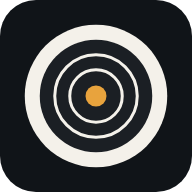
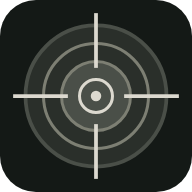
Fondos oscuros y acentos militares, icono nuevo y nombre Cuaderno de Tiro
- Ajustes: selector de fondo oscuro (original, negro, gris oscuro, gris y
  verde militar #141916) y cuatro acentos militares nuevos.
- Las superficies y bordes del modo oscuro se derivan del fondo elegido.
- src/lib/colors.ts: tinta legible sobre el acento y acento como texto solo
  si contrasta con el fondo, con tests.
- Icono y pantalla de inicio en tonos militares, con variante maskable.
- Manifiesto: name y short_name 'Cuaderno de Tiro'.

Claude-Session: https://claude.ai/code/session_0153KyUo7hLLrksDpS5ZWPV8

diff --git a/src/styles.css b/src/styles.css
@@ -10,6 +10,8 @@
   --warn-bg: #fff3d6;
   --warn-text: #6b4a00;
   --on-accent: #1b1f24;
+  /* Acento para texto e iconos; App lo cambia si no se lee sobre el fondo. */
+  --accent-ink: var(--accent);
   --card-paper: #f6f3ea;
   --ring-dark: #1b1f24;
   --mpi: #2a7de1;
@@ -20,12 +22,14 @@
 
 @media (prefers-color-scheme: dark) {
   :root:not([data-theme='light']) {
-    --bg: #101418;
-    --surface: #1a2027;
-    --surface-2: #232b34;
+    /* El fondo oscuro es elegible (--bg-dark lo pone App) y las superficies se
+       aclaran a partir de él. */
+    --bg: var(--bg-dark, #101418);
+    --surface: color-mix(in srgb, var(--bg) 95%, #ffffff);
+    --surface-2: color-mix(in srgb, var(--bg) 91%, #ffffff);
     --text: #e9ecef;
     --muted: #9aa4ae;
-    --border: #2e3843;
+    --border: color-mix(in srgb, var(--bg) 84%, #ffffff);
     --warn-bg: #3a2f14;
     --warn-text: #f5d58a;
     --mpi: #5aa8ff;
@@ -34,12 +38,14 @@
 }
 
 :root[data-theme='dark'] {
-  --bg: #101418;
-  --surface: #1a2027;
-  --surface-2: #232b34;
+  /* El fondo oscuro es elegible (--bg-dark lo pone App) y las superficies se
+     aclaran a partir de él. */
+  --bg: var(--bg-dark, #101418);
+  --surface: color-mix(in srgb, var(--bg) 95%, #ffffff);
+  --surface-2: color-mix(in srgb, var(--bg) 91%, #ffffff);
   --text: #e9ecef;
   --muted: #9aa4ae;
-  --border: #2e3843;
+  --border: color-mix(in srgb, var(--bg) 84%, #ffffff);
   --warn-bg: #3a2f14;
   --warn-text: #f5d58a;
   --mpi: #5aa8ff;
@@ -209,7 +215,7 @@ main {
 }
 
 .tabs a.on .tab-icon {
-  color: var(--accent);
+  color: var(--accent-ink);
 }
 
 .tab-icon {
@@ -345,7 +351,7 @@ main {
 .link {
   border: 0;
   background: none;
-  color: var(--accent);
+  color: var(--accent-ink);
   text-decoration: underline;
   padding: 0;
   cursor: pointer;
@@ -584,7 +590,7 @@ input[type='range'] {
 
 .clicks {
   font-weight: 700;
-  color: var(--accent);
+  color: var(--accent-ink);
 }
 
 /* Diana */
@@ -689,6 +695,7 @@ input[type='range'] {
 
 .zoom-bar button.on {
   background: var(--accent);
+  color: var(--on-accent);
 }
 
 .nudge {
@@ -807,19 +814,26 @@ input[type='range'] {
 
 .accents {
   display: flex;
+  flex-wrap: wrap;
   gap: 10px;
 }
 
 .accents button {
-  width: 44px;
-  height: 44px;
+  width: 48px;
+  height: 48px;
   border-radius: 50%;
   border: 3px solid transparent;
+  /* Contorno fino para que los tonos oscuros se vean sobre el fondo oscuro. */
+  box-shadow: 0 0 0 1px var(--border);
   cursor: pointer;
 }
 
 .accents button.on {
   border-color: var(--text);
+}
+
+.accents.swatches button {
+  border-radius: 12px;
 }
 
 /* Perfil */

diff --git a/src/App.tsx b/src/App.tsx
@@ -13,6 +13,7 @@ import { PelletForm, LotForm } from './screens/PelletForm';
 import { TargetForm } from './screens/TargetForm';
 import { ProfileScreen } from './screens/Profile';
 import type { Profile } from './db/types';
+import { accentInk, inkOn, toHex } from './lib/colors';
 
 const TABS = [
   { path: '', label: 'Inicio', icon: '⌂' },
@@ -32,11 +33,27 @@ function tabFor(route: string[]): string {
 function useTheme(profile: Profile) {
   useEffect(() => {
     const root = document.documentElement;
-    const { theme, highContrast, accent } = profile.prefs;
+    const { theme, highContrast, accent, darkBackground } = profile.prefs;
     if (theme === 'system') root.removeAttribute('data-theme');
     else root.setAttribute('data-theme', theme);
     root.toggleAttribute('data-contrast', highContrast);
     root.style.setProperty('--accent', accent);
+    root.style.setProperty('--bg-dark', darkBackground);
+
+    // La tinta sobre el acento, el acento como texto y el color de la barra del
+    // sistema dependen del fondo real, que en "Automático" cambia con el móvil.
+    const apply = () => {
+      const css = getComputedStyle(root);
+      const bg = toHex(css.getPropertyValue('--bg')) ?? '#101418';
+      const text = toHex(css.getPropertyValue('--text')) ?? '#e9ecef';
+      root.style.setProperty('--on-accent', inkOn(accent));
+      root.style.setProperty('--accent-ink', accentInk(accent, bg, text));
+      document.querySelector('meta[name="theme-color"]')?.setAttribute('content', bg);
+    };
+    apply();
+    const media = matchMedia('(prefers-color-scheme: dark)');
+    media.addEventListener('change', apply);
+    return () => media.removeEventListener('change', apply);
   }, [profile.prefs]);
 }
 
@@ -52,7 +69,7 @@ export function App() {
         <button className="avatar-btn" onClick={() => navigate('/perfil')} aria-label="Perfil">
           <PhotoView photoId={profile.avatarPhotoId} className="avatar sm" alt="" fallback={initials(profile)} />
         </button>
-        <span className="top-title">{profile.nickname || profile.name || 'Cuaderno de tiro'}</span>
+        <span className="top-title">{profile.nickname || profile.name || 'Cuaderno de Tiro'}</span>
       </header>
       <main>
         <Screen route={route} />

diff --git a/src/lib/colors.ts b/src/lib/colors.ts
@@ -1,0 +1,54 @@
+// Contraste de colores para el tema: qué tinta usar sobre el acento y cuándo
+// el acento no se lee como texto sobre el fondo elegido.
+
+/** Convierte '#rgb' o '#rrggbb' en [r, g, b] de 0 a 255. */
+export function parseHex(hex: string): [number, number, number] | undefined {
+  const m = /^#?([0-9a-f]{3}|[0-9a-f]{6})$/i.exec(hex.trim());
+  if (!m) return undefined;
+  const h = m[1].length === 3 ? [...m[1]].map((c) => c + c).join('') : m[1];
+  return [0, 2, 4].map((i) => parseInt(h.slice(i, i + 2), 16)) as [number, number, number];
+}
+
+/** Luminancia relativa WCAG (0 negro, 1 blanco). */
+export function luminance(hex: string): number {
+  const rgb = parseHex(hex);
+  if (!rgb) return 0;
+  const [r, g, b] = rgb.map((v) => {
+    const c = v / 255;
+    return c <= 0.03928 ? c / 12.92 : ((c + 0.055) / 1.055) ** 2.4;
+  });
+  return 0.2126 * r + 0.7152 * g + 0.0722 * b;
+}
+
+/** Relación de contraste WCAG entre dos colores (de 1 a 21). */
+export function contrastRatio(a: string, b: string): number {
+  const [hi, lo] = [luminance(a), luminance(b)].sort((x, y) => y - x);
+  return (hi + 0.05) / (lo + 0.05);
+}
+
+/** Tinta casi negra o blanca, la que mejor se lea sobre el color dado. */
+export function inkOn(color: string): string {
+  const dark = '#1b1f24';
+  const light = '#ffffff';
+  return contrastRatio(color, dark) >= contrastRatio(color, light) ? dark : light;
+}
+
+/**
+ * Color para texto e iconos de acento sobre el fondo: el propio acento si se
+ * lee (contraste de 3:1 o más) y, si no, el color de texto normal.
+ */
+export function accentInk(accent: string, bg: string, text: string): string {
+  return contrastRatio(accent, bg) >= 3 ? accent : text;
+}
+
+/** Convierte 'rgb(r, g, b)' (lo que devuelve getComputedStyle) o un hex a '#rrggbb'. */
+export function toHex(color: string): string | undefined {
+  const c = color.trim();
+  if (parseHex(c)) {
+    const rgb = parseHex(c)!;
+    return '#' + rgb.map((v) => v.toString(16).padStart(2, '0')).join('');
+  }
+  const m = /^rgba?\(\s*(\d+)[\s,]+(\d+)[\s,]+(\d+)/i.exec(c);
+  if (!m) return undefined;
+  return '#' + [m[1], m[2], m[3]].map((v) => Number(v).toString(16).padStart(2, '0')).join('');
+}

diff --git a/src/screens/Equipment.tsx b/src/screens/Equipment.tsx
@@ -25,7 +25,26 @@ function stamp() {
   return new Date().toISOString().slice(0, 10);
 }
 
-const ACCENTS = ['#e8a33d', '#3d9be8', '#4caf6a', '#e85b3d', '#a46be8'];
+const ACCENTS = [
+  '#e8a33d',
+  '#3d9be8',
+  '#4caf6a',
+  '#e85b3d',
+  '#a46be8',
+  // Tonos militares
+  '#2a2f2a',
+  '#4a4f48',
+  '#7d7f73',
+  '#dcd9cf',
+];
+
+const DARK_BACKGROUNDS = [
+  { value: '#101418', label: 'Azul noche (original)' },
+  { value: '#000000', label: 'Negro' },
+  { value: '#1c1c1c', label: 'Gris oscuro' },
+  { value: '#2b2b2b', label: 'Gris' },
+  { value: '#141916', label: 'Verde militar' },
+];
 
 export function Equipment() {
   const ctx = useAll();
@@ -156,6 +175,22 @@ export function Equipment() {
           ]}
         />
         <Toggle label="Alto contraste (pleno sol)" value={prefs.highContrast} onChange={(highContrast) => setPrefs({ highContrast })} />
+        <div className="field">
+          <span className="field-label">Fondo oscuro</span>
+          <div className="accents swatches">
+            {DARK_BACKGROUNDS.map((b) => (
+              <button
+                key={b.value}
+                className={b.value === prefs.darkBackground ? 'on' : ''}
+                style={{ background: b.value }}
+                // Los fondos son todos oscuros: elegir uno pasa el tema a oscuro.
+                onClick={() => setPrefs({ darkBackground: b.value, theme: 'dark' })}
+                aria-label={`Fondo ${b.label}`}
+                title={b.label}
+              />
+            ))}
+          </div>
+        </div>
         <div className="field">
           <span className="field-label">Color de acento</span>
           <div className="accents">

diff --git a/src/lib/colors.test.ts b/src/lib/colors.test.ts
@@ -1,0 +1,36 @@
+import { describe, expect, it } from 'vitest';
+import { accentInk, contrastRatio, inkOn, luminance, parseHex, toHex } from './colors';
+
+describe('colores', () => {
+  it('lee hex cortos y largos', () => {
+    expect(parseHex('#fff')).toEqual([255, 255, 255]);
+    expect(parseHex('#141916')).toEqual([20, 25, 22]);
+    expect(parseHex('rojo')).toBeUndefined();
+  });
+
+  it('luminancia y contraste WCAG', () => {
+    expect(luminance('#000000')).toBe(0);
+    expect(luminance('#ffffff')).toBeCloseTo(1);
+    expect(contrastRatio('#000000', '#ffffff')).toBeCloseTo(21);
+    expect(contrastRatio('#777777', '#777777')).toBeCloseTo(1);
+  });
+
+  it('tinta sobre el acento', () => {
+    expect(inkOn('#e8a33d')).toBe('#1b1f24');
+    expect(inkOn('#dcd9cf')).toBe('#1b1f24');
+    expect(inkOn('#2a2f2a')).toBe('#ffffff');
+    expect(inkOn('#4a4f48')).toBe('#ffffff');
+  });
+
+  it('el acento oscuro no se usa como texto sobre fondo oscuro', () => {
+    expect(accentInk('#2a2f2a', '#141916', '#e9ecef')).toBe('#e9ecef');
+    expect(accentInk('#dcd9cf', '#141916', '#e9ecef')).toBe('#dcd9cf');
+    expect(accentInk('#e8a33d', '#000000', '#ffffff')).toBe('#e8a33d');
+  });
+
+  it('normaliza colores calculados', () => {
+    expect(toHex('rgb(20, 25, 22)')).toBe('#141916');
+    expect(toHex(' #ABC')).toBe('#aabbcc');
+    expect(toHex('transparent')).toBeUndefined();
+  });
+});

diff --git a/vite.config.ts b/vite.config.ts
@@ -13,20 +13,21 @@ export default defineConfig({
       registerType: 'autoUpdate',
       includeAssets: ['icon.svg'],
       manifest: {
-        name: 'Cuaderno de tiro',
-        short_name: 'Cuaderno',
+        name: 'Cuaderno de Tiro',
+        // Android usa short_name bajo el icono y en la pantalla de inicio.
+        short_name: 'Cuaderno de Tiro',
         description: 'Registro personal y offline de tiro con aire comprimido',
         lang: 'es',
         start_url: base,
         scope: base,
         display: 'standalone',
         orientation: 'portrait',
-        background_color: '#101418',
-        theme_color: '#101418',
+        background_color: '#141916',
+        theme_color: '#141916',
         icons: [
           { src: 'icon-192.png', sizes: '192x192', type: 'image/png' },
           { src: 'icon-512.png', sizes: '512x512', type: 'image/png' },
-          { src: 'icon-512.png', sizes: '512x512', type: 'image/png', purpose: 'maskable' },
+          { src: 'icon-maskable-512.png', sizes: '512x512', type: 'image/png', purpose: 'maskable' },
         ],
       },
       workbox: {

diff --git a/index.html b/index.html
@@ -3,11 +3,11 @@
   <head>
     <meta charset="UTF-8" />
     <meta name="viewport" content="width=device-width, initial-scale=1, viewport-fit=cover" />
-    <meta name="theme-color" content="#101418" />
+    <meta name="theme-color" content="#141916" />
     <meta name="description" content="Registro personal y offline de tiro con aire comprimido" />
     <link rel="icon" href="/icon.svg" type="image/svg+xml" />
     <link rel="apple-touch-icon" href="/icon-192.png" />
-    <title>Cuaderno de tiro</title>
+    <title>Cuaderno de Tiro</title>
   </head>
   <body>
     <div id="root"></div>

diff --git a/src/db/types.ts b/src/db/types.ts
@@ -23,6 +23,8 @@ export interface Profile {
     theme: ThemeMode;
     highContrast: boolean;
     accent: string;
+    /** Fondo del modo oscuro, en hex. */
+    darkBackground: string;
     angularUnit: AngularUnit;
     windUnit: 'ms' | 'kmh';
     weightUnit: 'g' | 'gr';

diff --git a/src/db/db.ts b/src/db/db.ts
@@ -77,6 +77,7 @@ export const DEFAULT_PROFILE: Profile = {
     theme: 'system',
     highContrast: false,
     accent: '#e8a33d',
+    darkBackground: '#101418',
     angularUnit: 'moa',
     windUnit: 'ms',
     weightUnit: 'gr',
